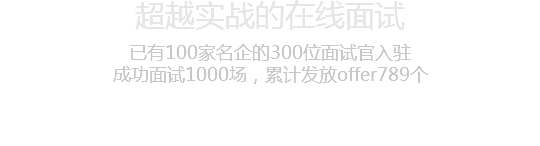
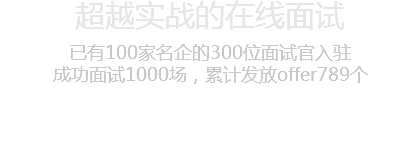
bug fixed

diff --git a/index.html b/index.html
@@ -11,7 +11,7 @@
   <title>Home</title>
   <!-- CSS -->
   <link rel="stylesheet" type="text/css" href="css/site_global.css?3777184675"/>
-  <link rel="stylesheet" type="text/css" href="css/index.css?351675046" id="pagesheet"/>
+  <link rel="stylesheet" type="text/css" href="css/index.css?471240918" id="pagesheet"/>
   <!-- Other scripts -->
   <script type="text/javascript">
    document.documentElement.className += ' js';
@@ -75,7 +75,7 @@
      </div>
     </div>
     <img class="colelem" id="u471-9" alt="超越实战的在线面试 已有100家名企的300位面试官入驻
-成功面试1000场，累计发放offer789个" width="540" height="146" src="images/u471-9.png"/><!-- rasterized frame -->
+成功面试1000场，累计发放offer789个" width="420" height="153" src="images/u471-9.png"/><!-- rasterized frame -->
     <div class="browser_width colelem" id="u180-bw">
      <div id="u180"><!-- group -->
       <div class="clearfix" id="u180_align_to_page">

diff --git a/css/index.css b/css/index.css
@@ -1,7 +1,7 @@
 .version.index /* version checker */
 {
-	color: #000014;
-	background-color: #F622A6;
+	color: #00001C;
+	background-color: #1690D6;
 }
 
 .html
@@ -391,9 +391,9 @@
 	z-index: 58;
 	display: block;
 	vertical-align: top;
-	margin-left: 330px;
-	top: -516px;
-	margin-bottom: -146px;
+	margin-left: 390px;
+	top: -518px;
+	margin-bottom: -153px;
 	position: relative;
 }
 
@@ -454,7 +454,6 @@
 #u180-bw
 {
 	z-index: 2;
-	margin-top: 38px;
 	height: 142px;
 }
 
